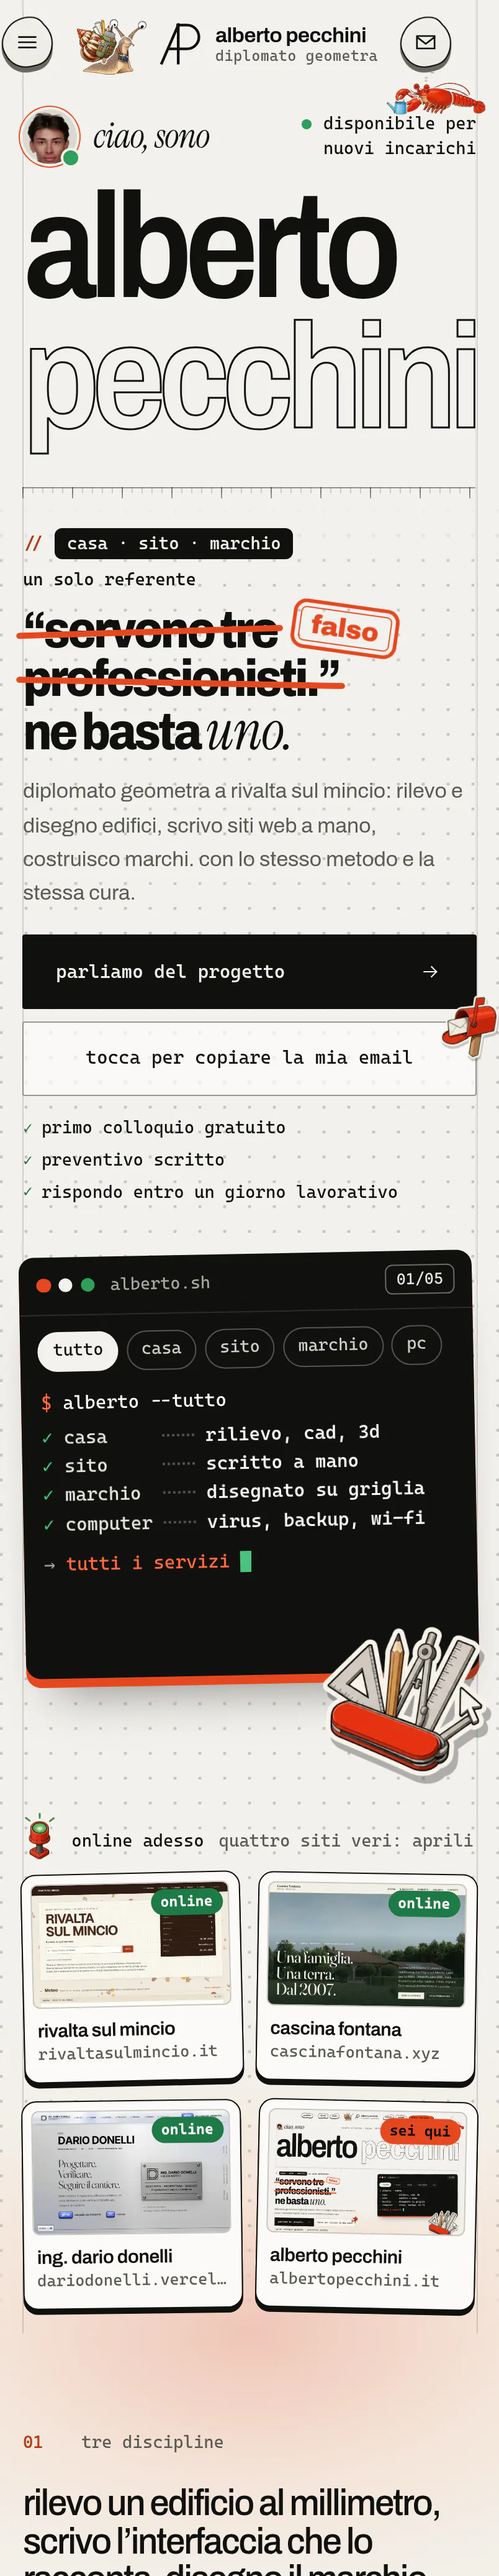
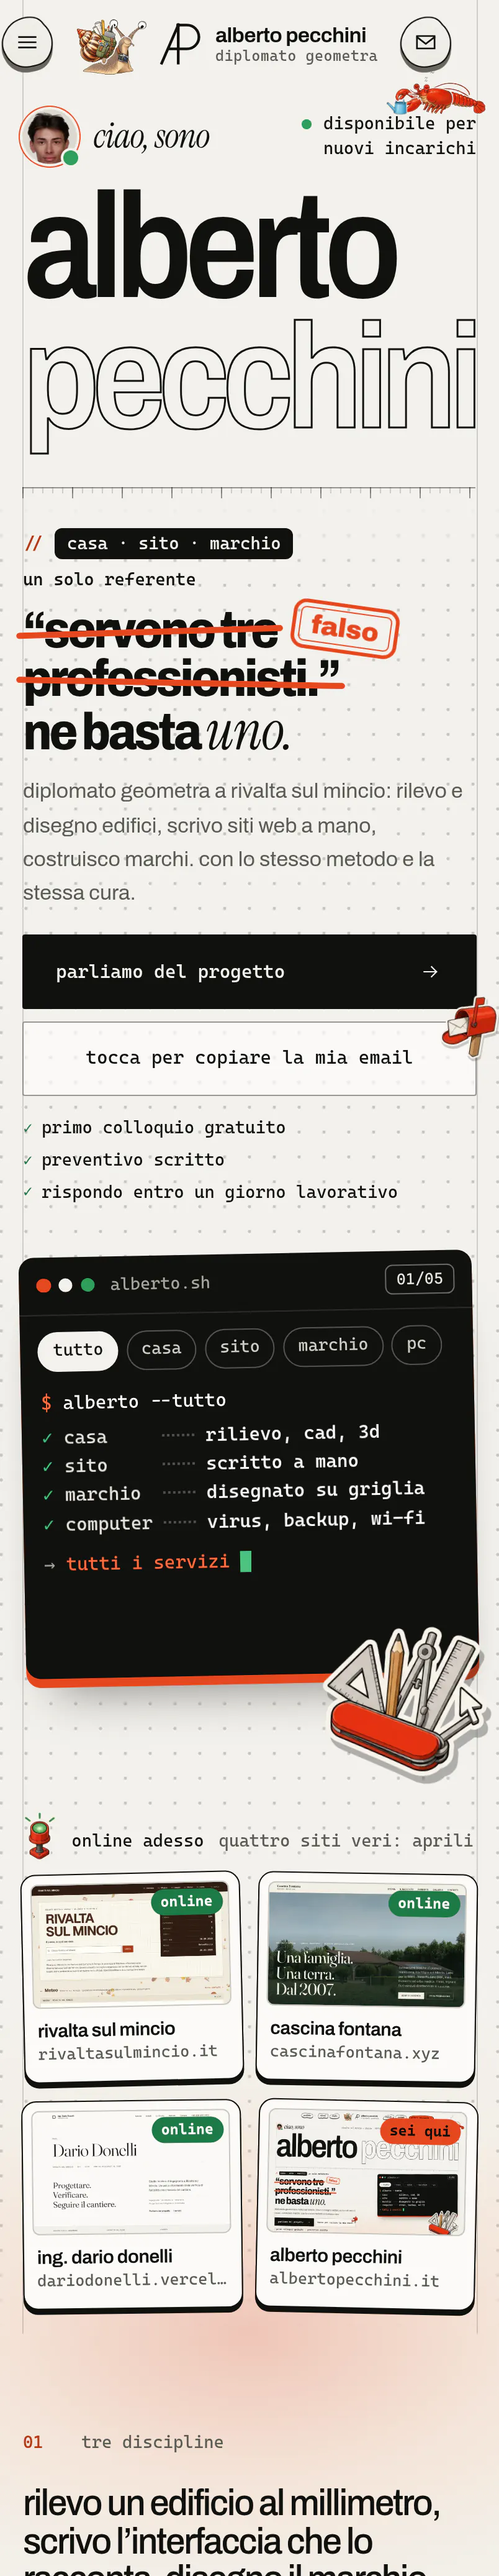
Catture aggiornate: Alberto Pecchini
Rifatte da .github/workflows/catture.yml: il sito online era cambiato.

Changed region(s): [[0.0622, 0.809, 0.4664, 0.8712]]

diff --git a/albertopecchini.it/src/data/catture.js b/albertopecchini.it/src/data/catture.js
@@ -4,15 +4,15 @@
 // la copia vecchia dopo un aggiornamento.
 
 export const catture = {
-  'ap-desktop-tall.webp': { w: 1200, h: 2833, v: '4c8fa362' },
+  'ap-desktop-tall.webp': { w: 1200, h: 2833, v: '9057486d' },
   'ap-desktop.webp': { w: 1200, h: 750, v: '5c87e10f' },
-  'ap-iphone-01.webp': { w: 804, h: 4146, v: '4a0cd700' },
-  'ap-iphone-02.webp': { w: 804, h: 4146, v: '0a98c793' },
-  'ap-iphone-03.webp': { w: 804, h: 4146, v: 'e19410d4' },
+  'ap-iphone-01.webp': { w: 804, h: 4146, v: '2be9f852' },
+  'ap-iphone-02.webp': { w: 804, h: 4146, v: '29062742' },
+  'ap-iphone-03.webp': { w: 804, h: 4146, v: '04acece4' },
   'ap-iphone-04.webp': { w: 804, h: 4146, v: '6e06b8dc' },
   'ap-iphone-05.webp': { w: 804, h: 4146, v: '0b7b9122' },
-  'ap-iphone-06.webp': { w: 804, h: 4140, v: '63e532ec' },
-  'ap-mobile-tall.webp': { w: 600, h: 4000, v: '07ba94f1' },
+  'ap-iphone-06.webp': { w: 804, h: 4140, v: 'e1459287' },
+  'ap-mobile-tall.webp': { w: 600, h: 4000, v: '91ab071e' },
   'ap-mobile.webp': { w: 600, h: 1298, v: '8906d4d0' },
   'ap-tablet.webp': { w: 720, h: 1036, v: 'c7972925' },
   'cascina-contatti-mobile.webp': { w: 600, h: 1298, v: '990e9109' },
